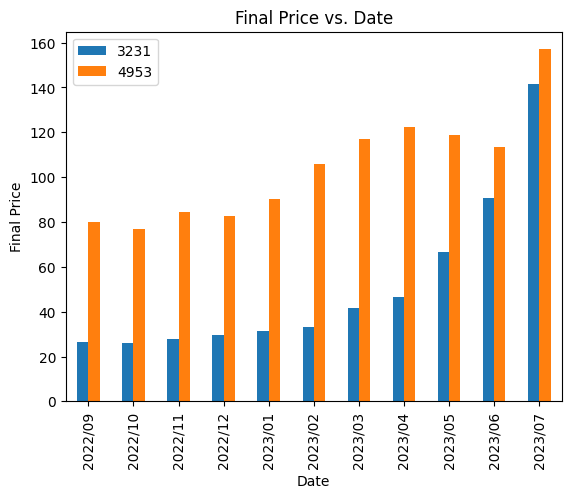
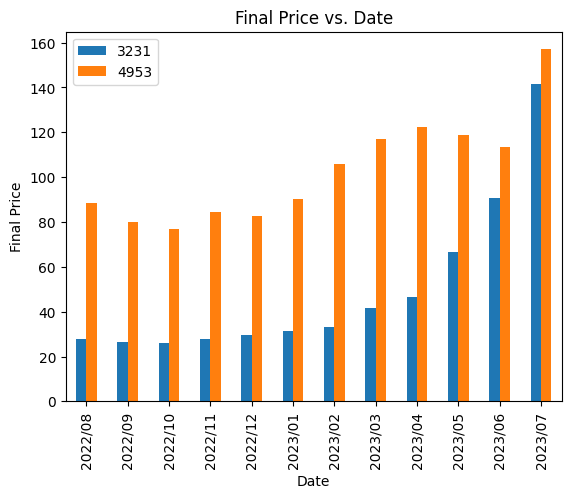
update files

Changed region(s): [[0.1191, 0.241, 0.8932, 0.9639], [0.9229, 0.1205, 0.9527, 0.9639]]

diff --git a/stock_price_compare.py b/stock_price_compare.py
@@ -36,7 +36,7 @@ def web_crawler_and_plot() :
         soup = BeautifulSoup(raw_html, 'html.parser') 
         performance_list = []
         #抓取對應股票號碼的時間欄位(近12個月,按照時間順序)與收盤價欄位
-        for index in range(16, 4, -1):
+        for index in range(17, 4, -1):
           performance_dict = {}
           performance_dict['date'] = soup.select(f'tr:nth-child({index}) > td:nth-child(1) > nobr')[0].text
           performance_dict[f'{stock_id[x]}'] = soup.select(f'tr:nth-child({index}) > td:nth-child(3) > nobr')[0].text

diff --git a/README.md b/README.md
@@ -47,6 +47,3 @@
         - ![image](https://github.com/steve50207/Python-Stock_Price_Comparison-Demo/blob/main/png/%E5%9F%B7%E8%A1%8C%E5%89%8D.PNG)
     - 執行後:
         - ![image](https://github.com/steve50207/Python-Stock_Price_Comparison-Demo/blob/main/png/%E5%9F%B7%E8%A1%8C%E5%BE%8C.PNG)
-
-## 相關連結
-- [線上Python自學課程連結](https://www.coderbridge.com/columns/17739e1d51fe4254b3dc5a1f9813bc0f/info)
